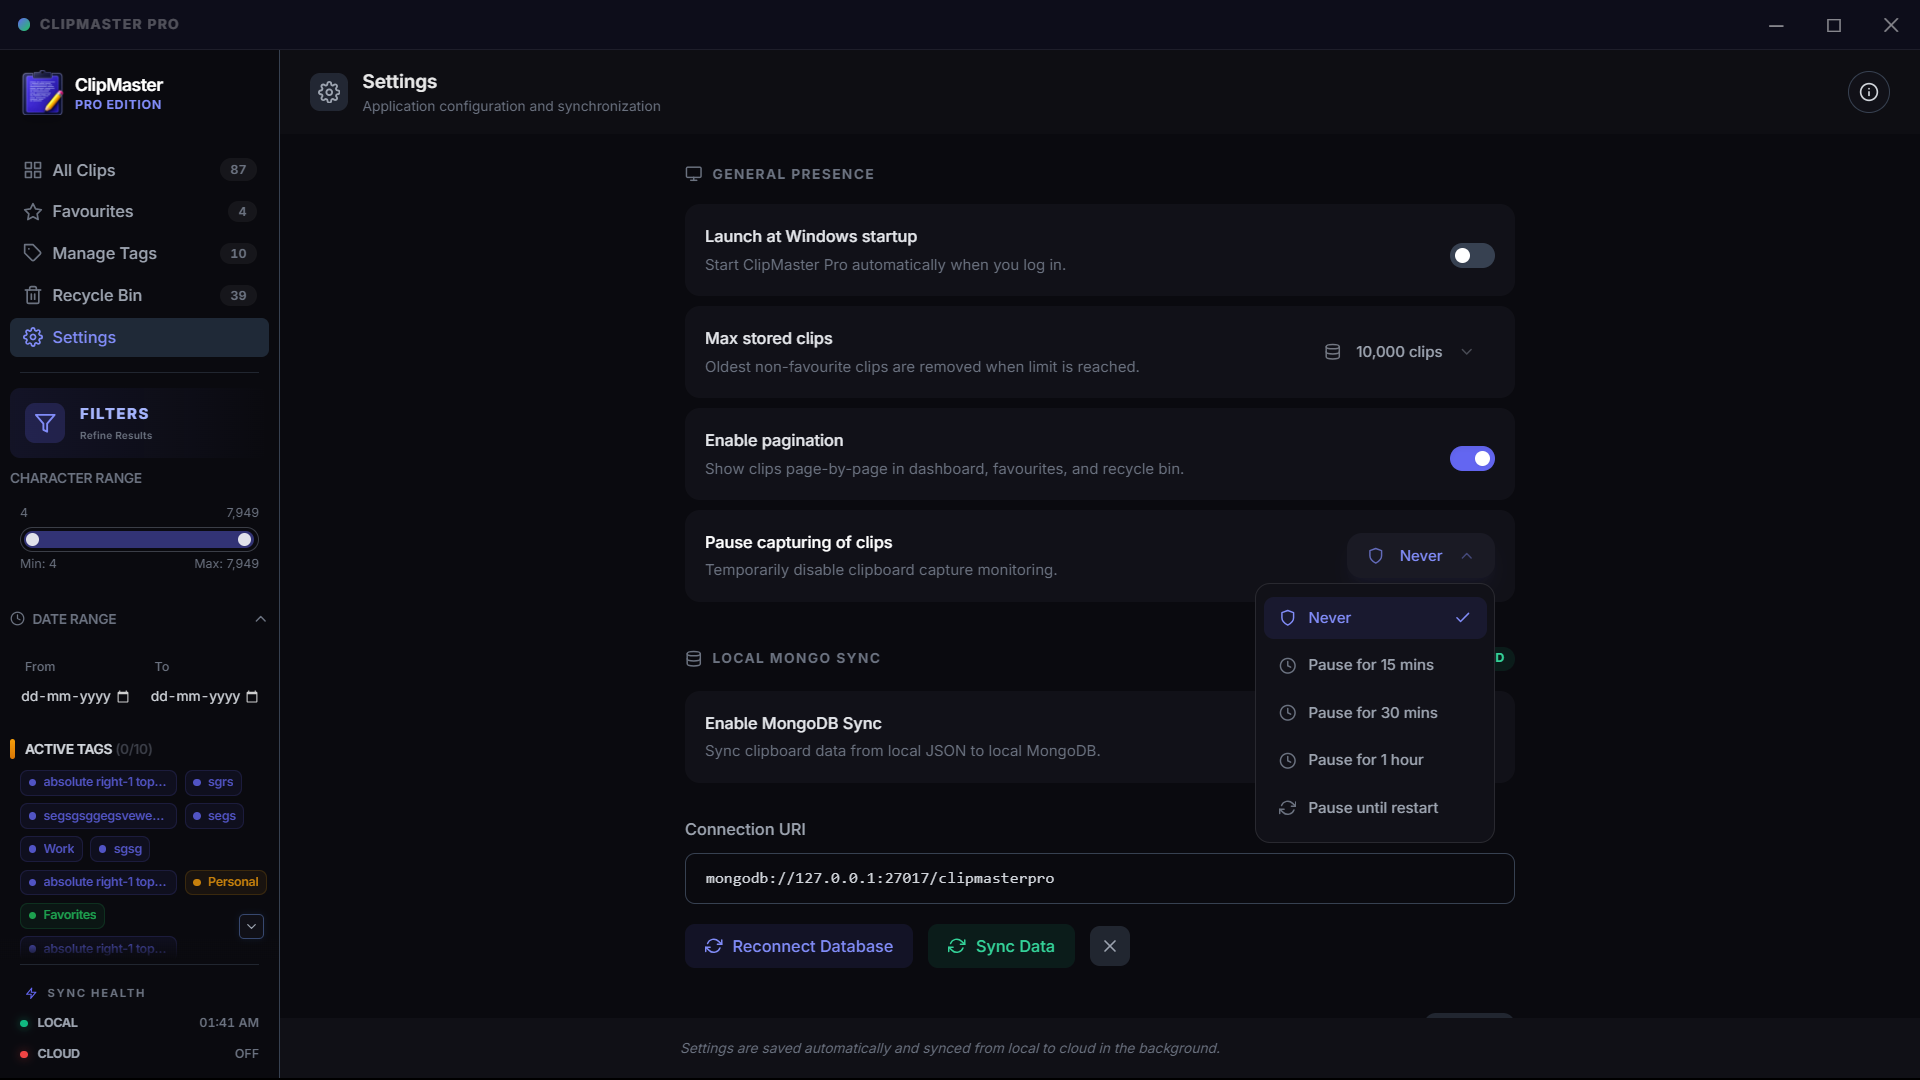
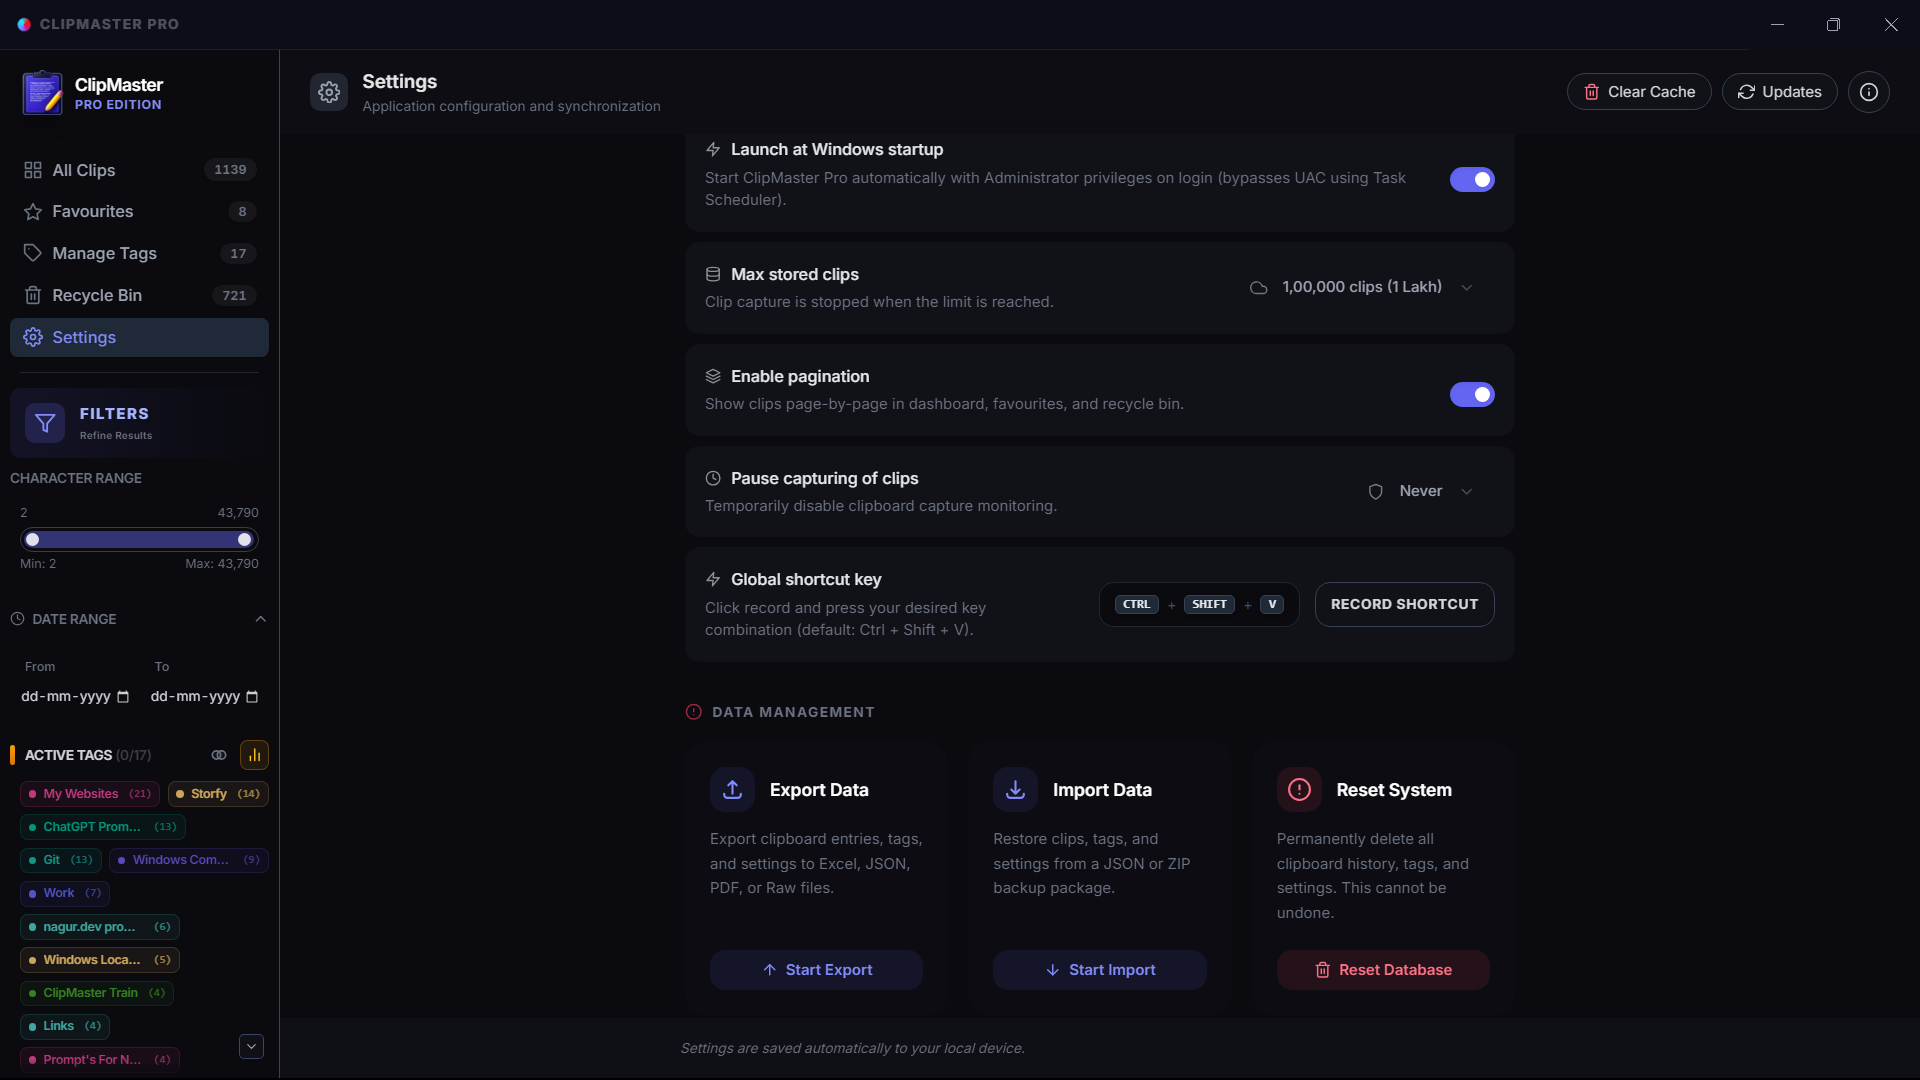
feat(win): implement windowless UAC-free elevation & auto-launch with Task Scheduler
- Introduce a compiled C# windowless GUI launcher (`launcher.exe`) to trigger scheduled tasks silently without command window blinking.
- Register two scheduled tasks (`ClipMasterProManualLaunch` and `ClipMasterProAutoLaunch`) running as Administrator with a 'Parallel' multiple instance policy.
- Configure installer shortcuts (Desktop & Start Menu) to target `launcher.exe` to run elevated UAC-free.
- Update Electron main process to silently self-elevate via Task Scheduler, with a self-healing fallback to continue as standard user if the task is unregistered.
- Force the application window to foreground focus on startup using the always-on-top trick.
- Rename NSIS macro `customUninstall` to `customUnInstall` to hook properly and show a native successful uninstallation confirmation popup.
- Bump version to 2.4.0, update screenshots, demo media, release notes, and README documentation.

diff --git a/electron/main.ts b/electron/main.ts
@@ -17,7 +17,7 @@ import * as path from "path";
 import * as fs from "fs";
 import * as https from "https";
 import { IncomingMessage } from "http";
-import { spawn, spawnSync, ChildProcess, exec } from "child_process";
+import { spawn, spawnSync, ChildProcess, exec, execSync } from "child_process";
 import { getDataDir, storageManager } from "./storage";
 import type { ClipboardItem, AppSettings } from "../src/types";
 import { exportManager } from "./exportManager";
@@ -47,6 +47,21 @@ function killOtherInstances() {
     ]);
   } catch (err) {
     console.error("Failed to kill other instances:", err);
+  }
+}
+
+// ─── UAC-Free Self-Elevation / UAC Bypass ────────────────────────────────────
+if (app.isPackaged && process.platform === "win32" && !checkIsAdmin()) {
+  console.log("[Main] Running as standard user. Relaunching elevated via Task Scheduler...");
+  try {
+    // Run task scheduler task to relaunch the app elevated UAC-free. Ignore stdio to avoid pipe block.
+    execSync('schtasks /run /tn "ClipMasterProManualLaunch"', { stdio: "ignore" });
+    app.quit();
+    process.exit(0);
+  } catch (err) {
+    // Fallback: If task scheduler task fails or is not registered, do NOT quit.
+    // Continue running in the current process (as standard user) so the app still opens.
+    console.error("[Main] Failed to run elevated task via Task Scheduler:", err);
   }
 }
 
@@ -484,8 +499,13 @@ function createWindow(): void {
   }
 
   mainWindow.once("ready-to-show", () => {
-    mainWindow?.show();
-    mainWindow?.focus();
+    if (mainWindow) {
+      mainWindow.show();
+      mainWindow.focus();
+      // Force window to foreground on Windows when created from scratch
+      mainWindow.setAlwaysOnTop(true);
+      mainWindow.setAlwaysOnTop(false);
+    }
   });
 
   // Window Close Behavior:

diff --git a/electron/autoLaunch.ts b/electron/autoLaunch.ts
@@ -27,13 +27,22 @@ export function syncAutoLaunch(enabled: boolean): void {
   if (isPackaged) {
     const exePath = app.getPath("exe");
     // Create or update manual task with highest privileges (/rl highest). Sc once set to past date.
+    // Points directly to exePath to avoid flashing a console window.
     const manualCmd = `schtasks /create /tn "${manualTaskName}" /tr "\\"${exePath}\\"" /sc once /sd 01/01/1910 /st 00:00 /rl highest /f`;
     console.log(`[AutoLaunch] Syncing manual Task Scheduler task: ${manualCmd}`);
     exec(manualCmd, (err, stdout, stderr) => {
       if (err) {
         console.error("[AutoLaunch] Error creating manual scheduled task:", err, stderr);
       } else {
-        console.log("[AutoLaunch] Manual scheduled task synced successfully:", stdout.trim());
+        console.log("[AutoLaunch] Manual scheduled task created. Setting policy to Parallel...");
+        // Configure MultipleInstancesPolicy to Parallel to allow multiple launches to run & notify single-instance lock
+        exec(`powershell -Command "Set-ScheduledTask -TaskName '${manualTaskName}' -Settings (New-ScheduledTaskSettingsSet -MultipleInstances Parallel)"`, (psErr) => {
+          if (psErr) {
+            console.error("[AutoLaunch] Error setting manual task to Parallel:", psErr);
+          } else {
+            console.log("[AutoLaunch] Manual scheduled task policy set to Parallel successfully.");
+          }
+        });
       }
     });
   }
@@ -42,13 +51,22 @@ export function syncAutoLaunch(enabled: boolean): void {
   if (enabled && isPackaged) {
     const exePath = app.getPath("exe");
     // Create or update auto task with highest privileges (/rl highest) triggered on logon (/sc onlogon)
+    // Points directly to exePath to avoid flashing a console window.
     const autoCmd = `schtasks /create /tn "${autoTaskName}" /tr "\\"${exePath}\\" --hidden" /sc onlogon /rl highest /f`;
     console.log(`[AutoLaunch] Enabling auto Task Scheduler task: ${autoCmd}`);
     exec(autoCmd, (err, stdout, stderr) => {
       if (err) {
         console.error("[AutoLaunch] Error creating auto scheduled task:", err, stderr);
       } else {
-        console.log("[AutoLaunch] Auto scheduled task created successfully:", stdout.trim());
+        console.log("[AutoLaunch] Auto scheduled task created. Setting policy to Parallel...");
+        // Configure MultipleInstancesPolicy to Parallel
+        exec(`powershell -Command "Set-ScheduledTask -TaskName '${autoTaskName}' -Settings (New-ScheduledTaskSettingsSet -MultipleInstances Parallel)"`, (psErr) => {
+          if (psErr) {
+            console.error("[AutoLaunch] Error setting auto task to Parallel:", psErr);
+          } else {
+            console.log("[AutoLaunch] Auto scheduled task policy set to Parallel successfully.");
+          }
+        });
       }
     });
   } else {

diff --git a/src/constants.ts b/src/constants.ts
@@ -2,6 +2,6 @@
  * Application Constants
  */
 
-export const APP_VERSION = "2.3.0";
+export const APP_VERSION = "2.4.0";
 export const APP_NAME = "ClipMaster Pro";
 export const APP_BUILD_TYPE = "Official Build";

diff --git a/electron/launcher.cs b/electron/launcher.cs
@@ -1,0 +1,12 @@
+using System.Diagnostics;
+
+class Launcher {
+    static void Main() {
+        ProcessStartInfo startInfo = new ProcessStartInfo();
+        startInfo.FileName = "schtasks.exe";
+        startInfo.Arguments = "/run /tn \"ClipMasterProManualLaunch\"";
+        startInfo.CreateNoWindow = true;
+        startInfo.UseShellExecute = false;
+        Process.Start(startInfo);
+    }
+}

diff --git a/features.md b/features.md
@@ -1,0 +1,44 @@
+Credientials to be encrpt every where
+Sync Across All Devices
+Responsive For All Devices
+portable not working, resolve it.
+settings - on or off for clips accept from incognito mode, password copy
+
+Multiple select delete in all clips, favourites, recycle bin -->> By option which is selected clip to be with full border  --->> Because to many clips for delete leads to stuck expecially in full view, normal view
+
+Clipboard History Timeline - Today, Yesterday, This week, This Month
+Auto Cleanup - 7d, 30d, 90d, Never
+recycle bin - 7d, 30d, 90d, 1y, Forever
+Backup Options - Automatic Daily Backup, Weekly Backup, Backup location, restore backup, Always backup
+Ignore Rules - list of applications, websites, textpatterns
+Filter by patterns - aadhar 12-digit number, 10-digit no's, email pattern, url's pattern, hosts-mongodb://, chrome://, etc,. ip address, pc-locations when /username/dsd/sdd/
+Auto Tagging based on the applications, websites - if happens from chatgpt, gemini into prompt's, 
+
+
+## 📋 **RECOMMENDED ACTIONS - SECURITY HARDENING:**
+
+1. **Immediately:**
+   - [ ] Replace hardcoded `CLIPMASTER_SECRET` with environment variable-only approach
+   - [ ] Move GitHub API URL to config or environment
+   - [ ] Add `.env.example` (never commit `.env`)
+
+2. **Short-term:**
+   - [ ] Encrypt database files at rest using OS-level encryption
+   - [ ] Encrypt MongoDB URIs in settings storage
+   - [ ] Audit and pin all dependencies
+   - [ ] Add security headers and CSP to renderer
+
+3. **Long-term:**
+   - [ ] Implement key derivation per device (PBKDF2/scrypt)
+   - [ ] Use credential manager (Windows Credential Manager) for URIs
+   - [ ] Add SBOM (Software Bill of Materials) scanning
+   - [ ] Implement code signing for executable distribution
+
+--- Create branch for option 2 of Rewrite the UI in native C# / WPF for less and less activity.
+
+
+
+
+
+2.3.5
+#v2.4.0

diff --git a/README.md b/README.md
@@ -2,22 +2,44 @@
 
 **A fast clipboard manager for Windows** — Captures everything you copy, searchable and organized.
 
-![Version](https://img.shields.io/badge/Version-2.3.0-blue)
+![Version](https://img.shields.io/badge/Version-2.4.0-blue)
 ![License](https://img.shields.io/badge/License-MIT-blue)
 ![Status](https://img.shields.io/badge/Status-Production%20Ready-brightgreen)
 
 ---
 
-## Screenshots
+## Screenshots & Demo
 
 <p align="center">
-  <img src="screenshots/01_dashboard.png" alt="Main Dashboard">
-  <img src="screenshots/02_favourites.png" alt="Favourites">
-  <img src="screenshots/03_tags.png" alt="Tags">
-  <img src="screenshots/04_recycle_bin.png" alt="Recycle Bin">
-  <img src="screenshots/05_empty_recycle_bin.png" alt="Empty Recycle Bin">
-  <img src="screenshots/06_settings_general.png" alt="General Settings">
+  <img src="screenshots/0_main.png" alt="ClipMaster Pro Hero" width="800">
 </p>
+
+<p align="center">
+  <img src="screenshots/01_dashboard.png" alt="Main Dashboard" width="400">
+  <img src="screenshots/02_favourites.png" alt="Favourites" width="400">
+  <img src="screenshots/03_tags.png" alt="Tags" width="400">
+  <img src="screenshots/04_recycle_bin.png" alt="Recycle Bin" width="400">
+  <img src="screenshots/05_empty_recycle_bin.png" alt="Empty Recycle Bin" width="400">
+  <img src="screenshots/06_settings_general.png" alt="General Settings" width="400">
+</p>
+
+### Watch the Demo Video
+A video demonstration of ClipMaster Pro in action:
+[Watch the Demo Video](screenshots/Clipmaster%20Pro%20Demo.mp4)
+
+---
+
+## What's New in v2.4.0 (Since v2.2.4)
+
+Here is a list of the main features and enhancements introduced from v2.2.4 up to the current version:
+
+- 🪟 **Overlay Popup Window** — A lightweight, borderless hover/overlay window with custom drag handles and quick tag filters, which doesn't steal taskbar space.
+- ⚡ **Native C# Helpers** — Replaced resource-intensive background processes with optimized native C# executables (`clipboard-listener.exe` and `paster.exe`) to achieve near-zero idle CPU and RAM overhead.
+- 📋 **Active Paste Injection** — Smart target window detection and focus switching; automatically restores focus and executes native paste operations. Supports "Pin & Close" behavior.
+- 🔄 **Topmost Persistence** — High-frequency window positioning loop to lock the popup window as topmost during user dragging and interactions.
+- ♾️ **Infinite Scroll & Loading Spinner** — Smooth, lag-free listing pages for All Clips, Favourites, and Recycle Bin with loading spinners when pagination is disabled.
+- 🔢 **Custom Storage Limits & Lakh/Crore Formatting** — Support for custom maximum clip limits with Lakh/Crore formatting options.
+- ⚙️ **Auto-Launch Optimizations** — Seamless background startup integration for both development and packaged installations.
 
 ---
 
@@ -33,14 +55,14 @@
 - **Crash-Resilience**: Storage manager implements atomic operations and `fsync` so settings never revert during sudden app terminations (End Task, Ctrl+Shutdown).
 - **System Integration**: Startup hidden flag (`--hidden`) and a system tray manager with quick settings toggles.
 - **Keyboard Optimization**: Native shortcut detection (like `Ctrl` clicking Delete to permanently remove entries).
-- **Milestone**: Version 2.3.0 complete with custom version switcher, native updater, and crash-resilient storage engine.
+- **Milestone**: Version 2.4.0 complete with custom version switcher, native C# listener/paster helpers, overlay popup window, and infinite scroll.
 
 ## Download & Install
 - **[Setup Installer](https://github.com/Shaik-Nagur-Basha/ClipMaster-Pro/releases)** (85 MB) — Recommended for Windows users.
 - **[Portable Version](https://github.com/Shaik-Nagur-Basha/ClipMaster-Pro/releases)** (40 MB) — No installation required.
 
 ## Documentation
-- **[Release Notes](RELEASE_NOTES.md)** — Detailed v2.3.0 changelog.
+- **[Release Notes](doc/RELEASE_NOTES.md)** — Detailed v2.4.0 changelog.
 - **[Quick Start](doc/QUICK_START.md)** — Setup in under 60 seconds.
 - **[Architecture](doc/ARCHITECTURE.md)** — Technical breakdown of the app.
 - **[Troubleshooting](doc/TROUBLESHOOTING.md)** — Common fixes and support.

diff --git a/doc/RELEASE_NOTES.md b/doc/RELEASE_NOTES.md
@@ -1,6 +1,31 @@
 # ClipMaster Pro Release Notes
 
-## 🚀 v2.3.0 - Fix Setup Permission Error & Clean Up Releases (Latest)
+## 🚀 v2.4.0 - Custom Popups & Performance Enhancements (Latest)
+
+**"The Popup & Performance Update"**
+
+This release introduces a brand new overlay popup window with optimized C# native paste helpers, custom limits (Lakh/Crore) formatting, smooth infinite scrolling, and multiple performance improvements, while fully retiring the MongoDB local/cloud sync feature.
+
+### 🪟 High-Performance Overlay Popup & C# Helpers
+- **Overlay Popup Window**: Sleek, borderless, always-on-top popup with customizable drag handle, tag filters, and control buttons.
+- **Native C# Executables**: Uses lightweight C# helper processes (`paster.exe` and `clipboard-listener.exe`) for near-zero idle CPU and RAM background footprint.
+- **Topmost Lock**: Employs an active window positioning loop (50ms interval) to force the popup window to stay topmost during user interactions.
+- **Smart Focus Targeting**: Captures the foreground window prior to popup activation and returns focus before running paste.
+- **"Pin & Close" Logic**: Automatically hides/closes the popup after pasting if unpinned, or keeps it open and refocused if pinned.
+
+### ♾️ Infinite Scroll & Query Optimization
+- **Infinite Scrolling**: Replaces paginated list views in All Clips, Favourites, and Recycle Bin with smooth, lag-free infinite scrolling and loading spinner when pagination is disabled.
+- **Optimized Database Queries**: Significantly optimized tags query calculations and stats calculation, yielding a much more responsive sidebar and settings interface.
+
+### ⚙️ Formatting & Settings Upgrades
+- **Custom Max Clips limit**: Allows configuring custom clip storage limits.
+- **Lakh/Crore Formatting**: Adds settings support for South Asian numbering formats.
+- **General Presence Icons**: Integrated new visual layout and settings icons.
+- **Refined Auto-Launch**: Hardened startup launch behavior for both packaged production installer environment and local development mode.
+
+---
+
+## 🚀 v2.3.0 - Fix Setup Permission Error & Clean Up Releases (Previous)
 
 **"The Permission Fix & Release Clean Update"**
 